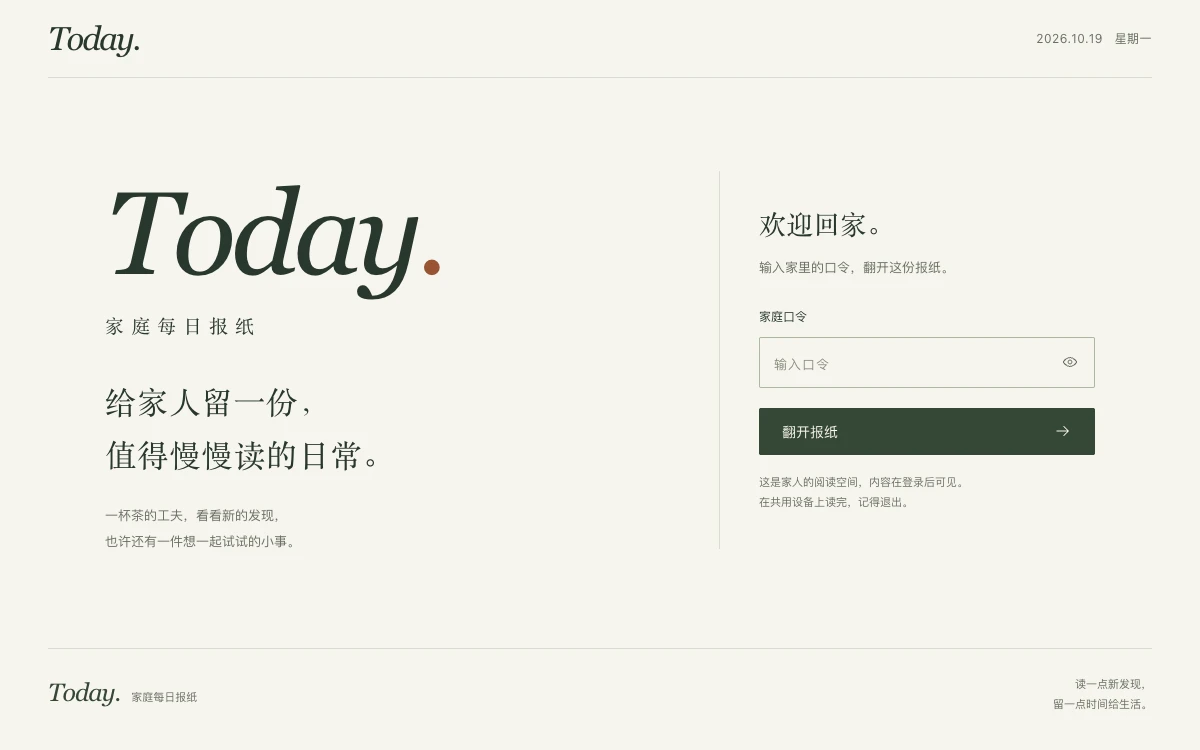
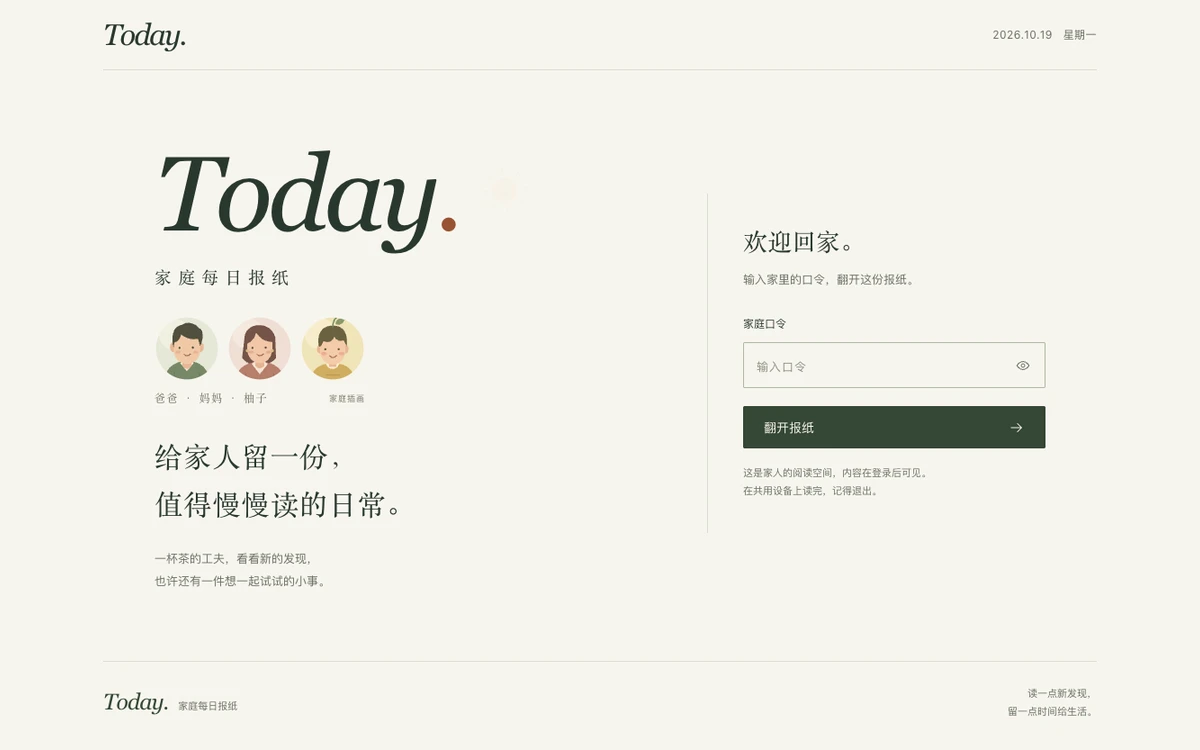
Refresh Today cover from the warm family login page

diff --git a/docs/ASSETS.md b/docs/ASSETS.md
@@ -184,3 +184,9 @@
 - `public/images/projects/today.webp` 来自 `https://today.fangs.cc/` 正式登录页，使用全新匿名浏览器上下文采集1200×750截图；口令输入框为空，没有登录、没有家庭正文或凭据。
[1 lines of base64/hex data omitted]
 - 受控视觉回读：纸白背景、深绿色Today字标与朱砂句点，左侧生活邀请，右侧欢迎回家、空口令框及翻开报纸按钮；页面和文字完整，没有敏感内容。此封面只代表登录入口，不展示登录后的家庭内容。
+
+### 同日温馨版封面同步
+
+- 正式 Today 温馨版（应用源码 `7b6c4bf`）上线后，重新匿名采集登录页。真实画面包含爸爸、妈妈、柚子的三枚象征插画与淡色太阳，空口令框和原文完整保留；未登录或读取家庭正文。
[1 lines of base64/hex data omitted]
+- 受控预览确认三枚头像、标题、欢迎回家与空口令框均完整，没有改写或拼接产品界面。原始截图只作临时制作输入；Hi保留最终封面与回执。
